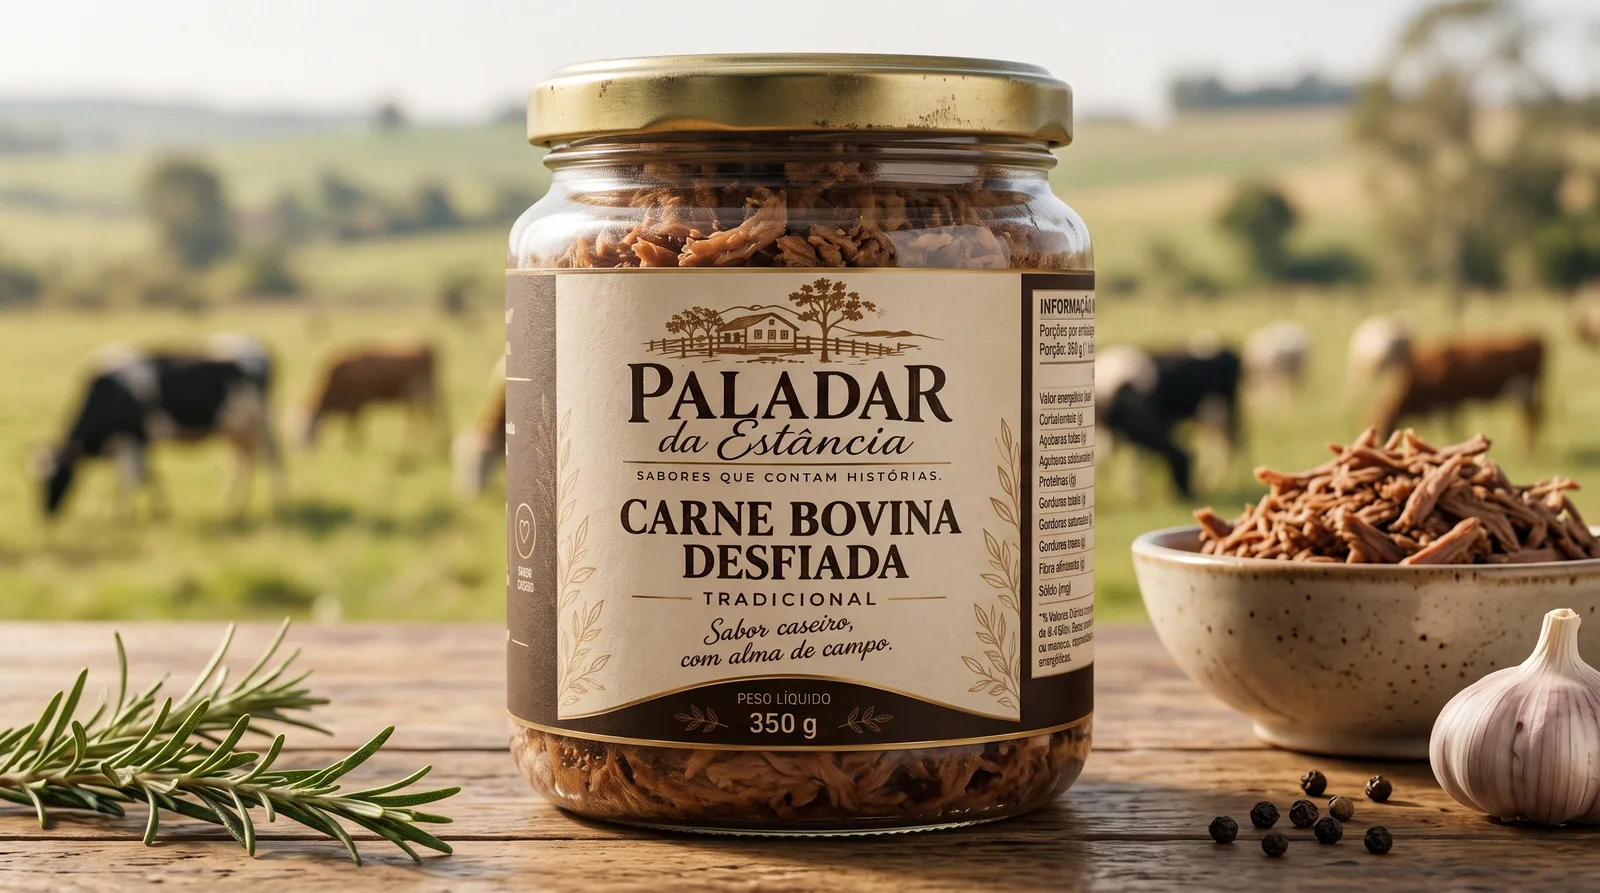
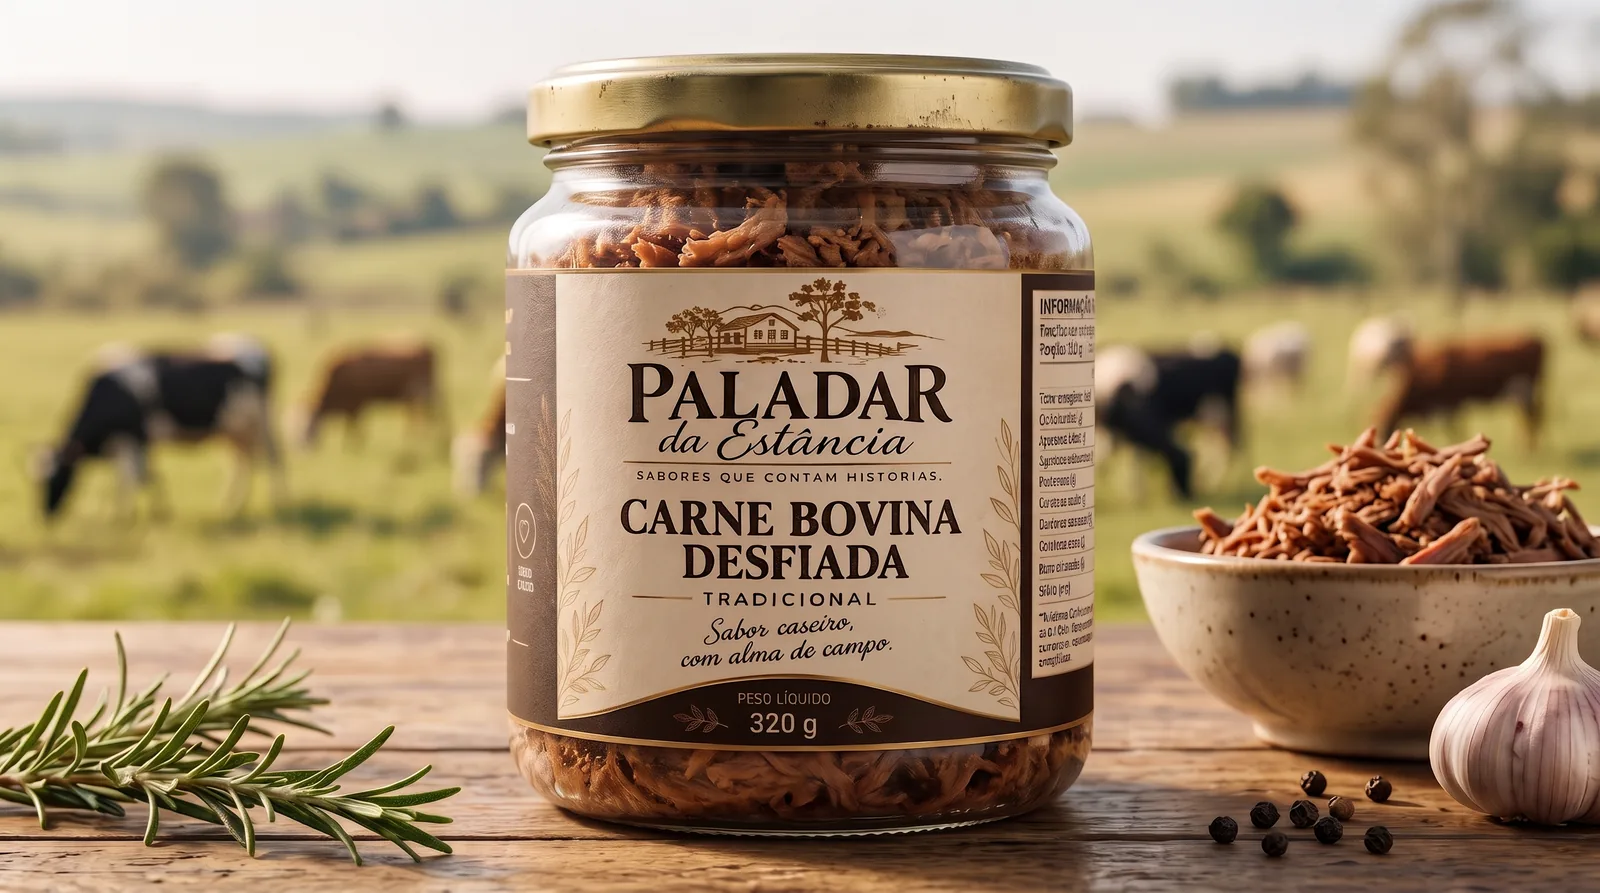
Volta para o vidro de 320 g: textos, tabela nutricional do rótulo novo, receitas, chat e fotos
Claude-Session: https://claude.ai/code/session_01As74gqM53w2W29UGo9M3Nb

diff --git a/index.html b/index.html
@@ -4,7 +4,7 @@
   <meta charset="utf-8">
   <meta name="viewport" content="width=device-width, initial-scale=1">
   <title>Paladar da Estância | Carne bovina desfiada pronta para servir</title>
-  <meta name="description" content="Molho pronto para consumo à base de carne, com sabor de comida feita em casa e sem conservantes artificiais. Vidro de 350 g: é só aquecer e servir.">
+  <meta name="description" content="Molho pronto para consumo à base de carne, com sabor de comida feita em casa e sem conservantes artificiais. Vidro de 320 g: é só aquecer e servir.">
   <link rel="canonical" href="https://paladardaestancia.com/">
   <meta property="og:type" content="website">
   <meta property="og:locale" content="pt_BR">
@@ -69,7 +69,7 @@
             </div>
           </div>
           <div class="abertura__foto">
-            <img src="assets/fotos/pote-rotulo.webp?v=6" alt="Vidro de 350 g da Carne Bovina Desfiada Paladar da Estância com o rótulo, sobre mesa de madeira" width="1600" height="893" fetchpriority="high">
+            <img src="assets/fotos/pote-rotulo.webp?v=7" alt="Vidro de 320 g da Carne Bovina Desfiada Paladar da Estância com o rótulo, sobre mesa de madeira" width="1600" height="893" fetchpriority="high">
           </div>
         </div>
       </div>
@@ -155,7 +155,7 @@
           <h2>Carne bovina desfiada, pronta para servir</h2>
           <p>Um vidro resolve a refeição: é só aquecer e levar à mesa. Feito para a rotina de casa e para a prateleira de empórios, mercados e vendas diretas.</p>
           <dl class="ficha">
-            <div><dt>Peso líquido</dt><dd>350 g por vidro</dd></div>
+            <div><dt>Peso líquido</dt><dd>320 g por vidro</dd></div>
             <div><dt>Preparo</dt><dd>Aqueça e sirva</dd></div>
             <div><dt>Conservantes</dt><dd>Nenhum artificial</dd></div>
             <div><dt>Validade</dt><dd>90 dias</dd></div>
@@ -170,7 +170,7 @@
       <div class="miolo">
         <div class="rotulo__grade">
           <div class="rotulo__frente">
-            <img src="assets/rotulo-frente.webp?v=3" alt="Frente do rótulo Paladar da Estância: carne bovina desfiada tradicional, peso líquido 350 g" width="800" height="742">
+            <img src="assets/rotulo-frente.webp?v=4" alt="Frente do rótulo Paladar da Estância: carne bovina desfiada tradicional, peso líquido 320 g" width="800" height="743">
           </div>
           <div class="rotulo__dados">
             <div class="cabeca">
@@ -188,21 +188,21 @@
             <h3>Informação nutricional</h3>
             <table class="tabela">
               <colgroup><col><col class="num"><col class="num"><col class="num"></colgroup>
-              <caption>Porções por embalagem: 1. Porção: 350 g (1 vidro).</caption>
+              <caption>Porções por embalagem: 1. Porção: 320 g (1 vidro).</caption>
               <thead>
-                <tr><th scope="col">Nutriente</th><th scope="col">100 g</th><th scope="col">350 g</th><th scope="col">%VD*</th></tr>
+                <tr><th scope="col">Nutriente</th><th scope="col">100 g</th><th scope="col">320 g</th><th scope="col">%VD*</th></tr>
               </thead>
               <tbody>
-                <tr><th scope="row">Valor energético (kcal)</th><td>180</td><td>630</td><td>31</td></tr>
-                <tr><th scope="row">Carboidratos (g)</th><td>3,0</td><td>10,5</td><td>3</td></tr>
-                <tr class="sub"><th scope="row">Açúcares totais (g)</th><td>1,5</td><td>5,2</td><td>-</td></tr>
+                <tr><th scope="row">Valor energético (kcal)</th><td>180</td><td>576</td><td>29</td></tr>
+                <tr><th scope="row">Carboidratos (g)</th><td>3,0</td><td>9,6</td><td>3</td></tr>
+                <tr class="sub"><th scope="row">Açúcares totais (g)</th><td>1,5</td><td>4,8</td><td>-</td></tr>
                 <tr class="sub"><th scope="row">Açúcares adicionados (g)</th><td>0</td><td>0</td><td>0</td></tr>
-                <tr><th scope="row">Proteínas (g)</th><td>20,0</td><td>70,0</td><td>140</td></tr>
-                <tr><th scope="row">Gorduras totais (g)</th><td>8,0</td><td>28,0</td><td>43</td></tr>
-                <tr class="sub"><th scope="row">Gorduras saturadas (g)</th><td>3,0</td><td>10,5</td><td>52</td></tr>
+                <tr><th scope="row">Proteínas (g)</th><td>20,0</td><td>64</td><td>128</td></tr>
+                <tr><th scope="row">Gorduras totais (g)</th><td>8,0</td><td>25,6</td><td>39</td></tr>
+                <tr class="sub"><th scope="row">Gorduras saturadas (g)</th><td>3,0</td><td>9,6</td><td>48</td></tr>
                 <tr class="sub"><th scope="row">Gorduras trans (g)</th><td>0</td><td>0</td><td>0</td></tr>
-                <tr><th scope="row">Fibra alimentar (g)</th><td>0,5</td><td>1,7</td><td>6</td></tr>
-                <tr><th scope="row">Sódio (mg)</th><td>615</td><td>2.152</td><td>107</td></tr>
+                <tr><th scope="row">Fibra alimentar (g)</th><td>0,5</td><td>1,6</td><td>6</td></tr>
+                <tr><th scope="row">Sódio (mg)</th><td>615</td><td>1.968</td><td>98</td></tr>
               </tbody>
             </table>
             <p class="nota">*% Valores Diários com base em uma dieta de 2.000 kcal ou 8.400 kJ. Seus valores diários podem ser maiores ou menores, dependendo de suas necessidades energéticas.</p>

diff --git a/js/chat-respostas.js b/js/chat-respostas.js
@@ -44,7 +44,7 @@ window.PALADAR_CHAT = {
     {
       id: "peso", assunto: "produto",
       pergunta: "Qual o tamanho do vidro?",
-      resposta: "Cada vidro tem <strong>350 g de peso líquido</strong>. O rótulo considera o vidro inteiro como 1 porção.",
+      resposta: "Cada vidro tem <strong>320 g de peso líquido</strong>. O rótulo considera o vidro inteiro como 1 porção.",
       palavras: ["peso", "gramas", "320", "350", "tamanho", "quantidade", "quanto vem", "rende", "porcao", "porcoes", "pote", "vidro", "serve quantas pessoas"],
       relacionadas: ["calorias", "o-que-e"]
     },
@@ -139,35 +139,35 @@ window.PALADAR_CHAT = {
     {
       id: "calorias", assunto: "nutricao",
       pergunta: "Quantas calorias tem?",
-      resposta: "<strong>180 kcal a cada 100 g</strong>. O vidro inteiro (350 g) tem <strong>630 kcal</strong>, 31% dos valores diários de referência.",
+      resposta: "<strong>180 kcal a cada 100 g</strong>. O vidro inteiro (320 g) tem <strong>576 kcal</strong>, 29% dos valores diários de referência.",
       palavras: ["caloria", "calorias", "kcal", "energetico", "engorda", "dieta"],
       relacionadas: ["proteina", "tabela"]
     },
     {
       id: "proteina", assunto: "nutricao",
       pergunta: "Quanta proteína tem?",
-      resposta: "<strong>20 g de proteína a cada 100 g</strong>. O vidro inteiro (350 g) tem <strong>70 g</strong>.",
+      resposta: "<strong>20 g de proteína a cada 100 g</strong>. O vidro inteiro (320 g) tem <strong>64 g</strong>.",
       palavras: ["proteina", "proteinas", "academia", "treino", "fit", "musculo", "hipertrofia"],
       relacionadas: ["calorias", "tabela"]
     },
     {
       id: "sodio", assunto: "nutricao",
       pergunta: "Quanto sódio tem?",
-      resposta: "<strong>615 mg de sódio a cada 100 g</strong>. O vidro inteiro (350 g) tem 2.152 mg, 107% dos valores diários de referência.",
+      resposta: "<strong>615 mg de sódio a cada 100 g</strong>. O vidro inteiro (320 g) tem 1.968 mg, 98% dos valores diários de referência.",
       palavras: ["sodio", "sal", "salgado", "pressao", "hipertensao"],
       relacionadas: ["tabela", "gorduras"]
     },
     {
       id: "gorduras", assunto: "nutricao",
       pergunta: "Quanta gordura tem?",
-      resposta: "A cada 100 g: <strong>8 g de gorduras totais</strong>, das quais 3 g são saturadas e 0 g trans. No vidro inteiro (350 g): 28 g totais, 10,5 g saturadas e 0 g trans.",
+      resposta: "A cada 100 g: <strong>8 g de gorduras totais</strong>, das quais 3 g são saturadas e 0 g trans. No vidro inteiro (320 g): 25,6 g totais, 9,6 g saturadas e 0 g trans.",
       palavras: ["gordura", "gorduras", "saturada", "trans", "colesterol", "oleo"],
       relacionadas: ["tabela", "calorias"]
     },
     {
       id: "tabela", assunto: "nutricao",
       pergunta: "Ver a tabela completa",
-      resposta: "Porção: 350 g (1 vidro). Valores a cada 100 g / no vidro / %VD:<ul><li>Valor energético: 180 kcal / 630 kcal / 31%</li><li>Carboidratos: 3,0 g / 10,5 g / 3%</li><li>Açúcares totais: 1,5 g / 5,2 g</li><li>Açúcares adicionados: 0 g / 0 g / 0%</li><li>Proteínas: 20,0 g / 70,0 g / 140%</li><li>Gorduras totais: 8,0 g / 28,0 g / 43%</li><li>Gorduras saturadas: 3,0 g / 10,5 g / 52%</li><li>Gorduras trans: 0 g / 0 g / 0%</li><li>Fibra alimentar: 0,5 g / 1,7 g / 6%</li><li>Sódio: 615 mg / 2.152 mg / 107%</li></ul>Valores diários com base em uma dieta de 2.000 kcal. A tabela também está na seção <a href=\"index.html#rotulo\">No rótulo</a>.",
+      resposta: "Porção: 320 g (1 vidro). Valores a cada 100 g / no vidro / %VD:<ul><li>Valor energético: 180 kcal / 576 kcal / 29%</li><li>Carboidratos: 3,0 g / 9,6 g / 3%</li><li>Açúcares totais: 1,5 g / 4,8 g</li><li>Açúcares adicionados: 0 g / 0 g / 0%</li><li>Proteínas: 20,0 g / 64 g / 128%</li><li>Gorduras totais: 8,0 g / 25,6 g / 39%</li><li>Gorduras saturadas: 3,0 g / 9,6 g / 48%</li><li>Gorduras trans: 0 g / 0 g / 0%</li><li>Fibra alimentar: 0,5 g / 1,6 g / 6%</li><li>Sódio: 615 mg / 1.968 mg / 98%</li></ul>Valores diários com base em uma dieta de 2.000 kcal. A tabela também está na seção <a href=\"index.html#rotulo\">No rótulo</a>.",
       palavras: ["tabela", "nutricional", "nutricao", "nutrientes", "valores", "carboidrato", "fibra", "fibras", "macros"],
       relacionadas: ["calorias", "proteina"]
     },

diff --git a/receitas.html b/receitas.html
@@ -61,7 +61,7 @@
         <div>
           <p class="lema">Caderno de receitas</p>
           <h1>Receitas com o nosso molho</h1>
-          <p class="pagina__intro">Seis pratos de casa que ficam prontos mais rápido, porque a carne já vem cozida, desfiada e temperada. Cada receita usa um vidro de 350 g, ou metade dele.</p>
+          <p class="pagina__intro">Seis pratos de casa que ficam prontos mais rápido, porque a carne já vem cozida, desfiada e temperada. Cada receita usa um vidro de 320 g, ou metade dele.</p>
           <nav class="indice" aria-label="Receitas desta página">
             <a href="#escondidinho">Escondidinho de aipim</a>
             <a href="#carreteiro">Arroz carreteiro</a>
@@ -92,7 +92,7 @@
           <div class="receita__ingredientes">
             <h3>Ingredientes</h3>
             <ul>
-              <li>1 vidro (350 g) de Carne Bovina Desfiada Paladar da Estância</li>
+              <li>1 vidro (320 g) de Carne Bovina Desfiada Paladar da Estância</li>
               <li>800 g de aipim (mandioca) descascado</li>
               <li>2 colheres (sopa) de manteiga</li>
               <li>½ xícara (120 ml) de leite quente</li>
@@ -134,7 +134,7 @@
           <div class="receita__ingredientes">
             <h3>Ingredientes</h3>
             <ul>
-              <li>1 vidro (350 g) de Carne Bovina Desfiada Paladar da Estância</li>
+              <li>1 vidro (320 g) de Carne Bovina Desfiada Paladar da Estância</li>
               <li>2 xícaras de arroz branco cru</li>
               <li>1 cebola picada</li>
               <li>2 dentes de alho picados</li>
@@ -177,7 +177,7 @@
           <div class="receita__ingredientes">
             <h3>Ingredientes</h3>
             <ul>
-              <li>1 vidro (350 g) de Carne Bovina Desfiada Paladar da Estância</li>
+              <li>1 vidro (320 g) de Carne Bovina Desfiada Paladar da Estância</li>
               <li>1 xícara (150 g) de fubá</li>
               <li>1 litro de líquido: só água, ou metade água e metade leite</li>
               <li>1 colher (sopa) de manteiga</li>
@@ -217,7 +217,7 @@
           <div class="receita__ingredientes">
             <h3>Ingredientes</h3>
             <ul>
-              <li>½ vidro (175 g) de Carne Bovina Desfiada Paladar da Estância</li>
+              <li>½ vidro (160 g) de Carne Bovina Desfiada Paladar da Estância</li>
               <li>8 colheres (sopa) de goma de tapioca hidratada</li>
               <li>100 g de queijo coalho em fatias finas ou ralado</li>
               <li>1 colher (sopa) de cebolinha picada</li>
@@ -263,7 +263,7 @@
             </ul>
             <h3>Recheio e cobertura</h3>
             <ul>
-              <li>1 vidro (350 g) de Carne Bovina Desfiada Paladar da Estância</li>
+              <li>1 vidro (320 g) de Carne Bovina Desfiada Paladar da Estância</li>
               <li>2 colheres (sopa) de requeijão cremoso</li>
               <li>1 xícara (250 ml) de molho de tomate</li>
               <li>100 g de muçarela ralada</li>
@@ -303,7 +303,7 @@
           <div class="receita__ingredientes">
             <h3>Ingredientes</h3>
             <ul>
-              <li>1 vidro (350 g) de Carne Bovina Desfiada Paladar da Estância</li>
+              <li>1 vidro (320 g) de Carne Bovina Desfiada Paladar da Estância</li>
               <li>4 pães franceses ou ciabattas</li>
               <li>4 fatias de muçarela ou queijo prato</li>
               <li>½ cebola roxa em rodelas finas</li>
